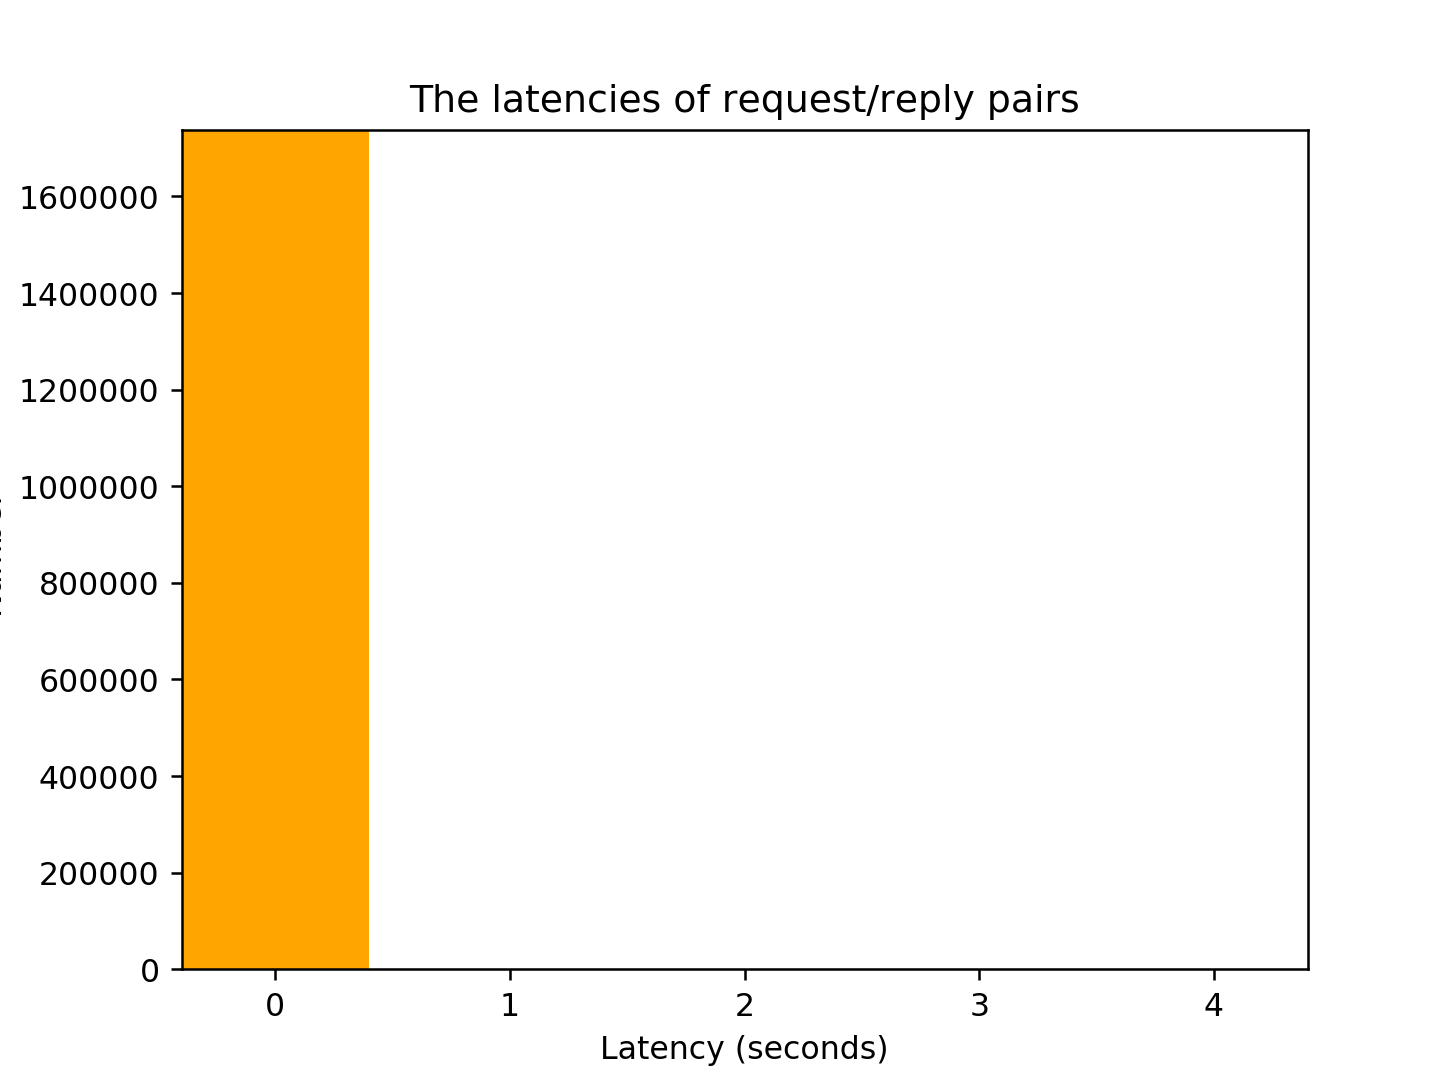
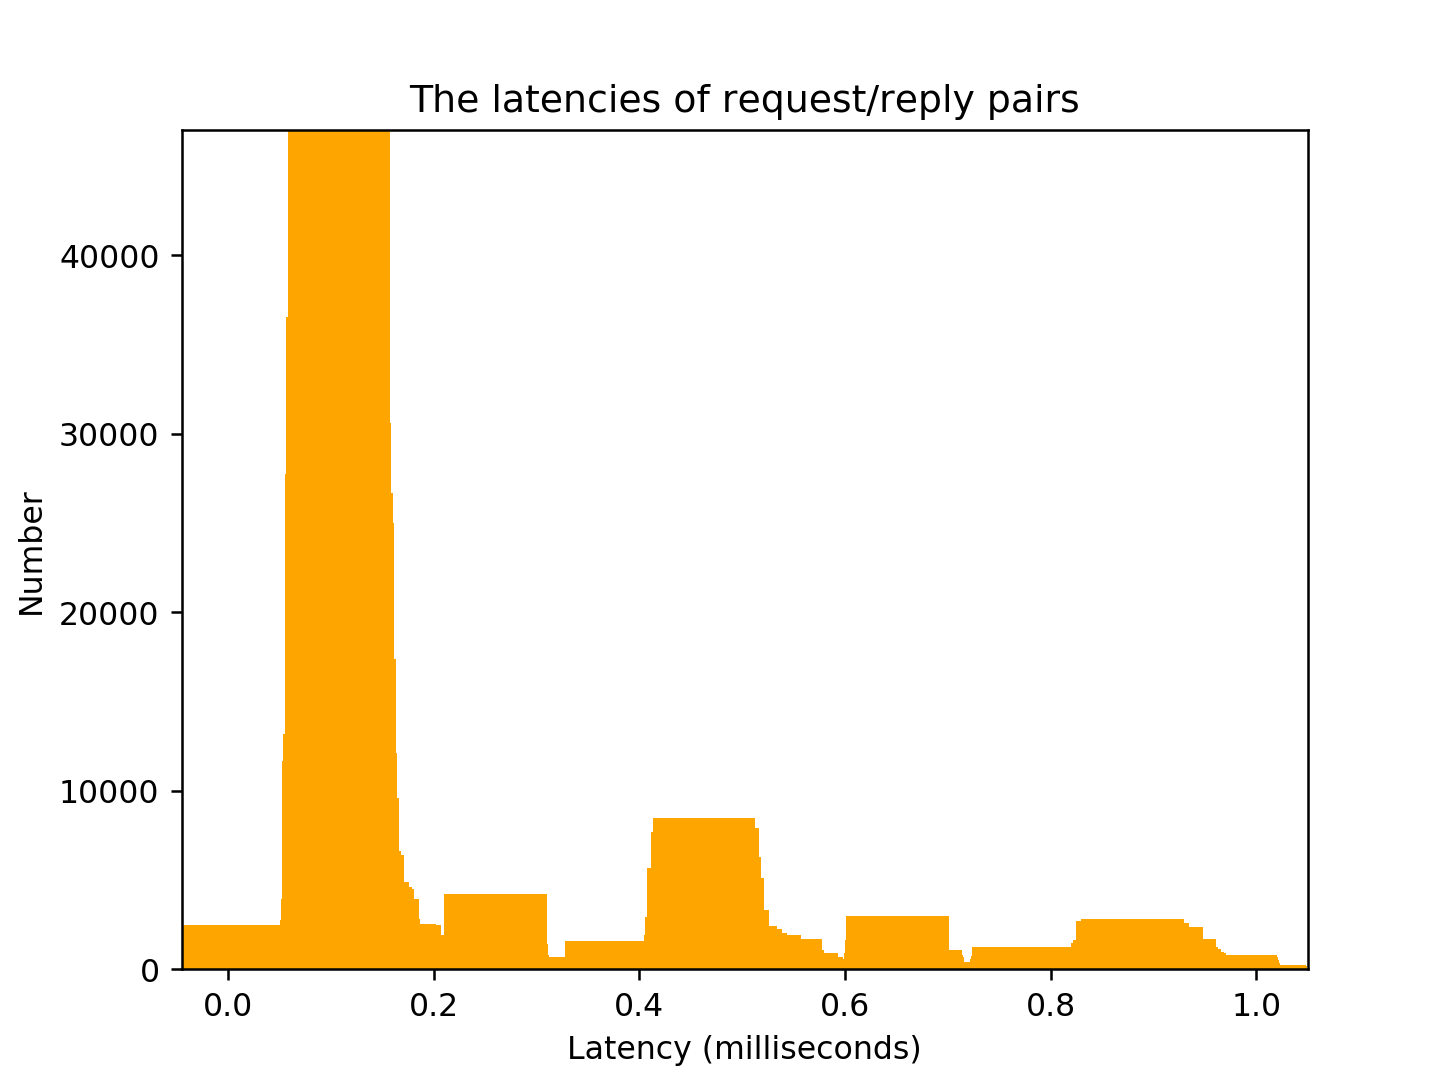
filter latencies more than one millisecond

Changed region(s): [[0.0, 0.0937, 0.2169, 0.8742], [0.2479, 0.1249, 0.8988, 0.9991], [0.124, 0.9054, 0.186, 0.9366]]

diff --git a/49/plot.py b/49/plot.py
@@ -6,11 +6,11 @@ import sys
 
 matrix = np.loadtxt(sys.stdin)
 
-print(matrix[-5:, :])
-
-plt.bar(matrix[:, 1], matrix[:, 0], color='orange')
+plt.bar(matrix[:, 1], matrix[:, 0], color='orange', width=0.1)
 plt.margins(0)
-plt.xlabel('Latency (seconds)')
+# plt.xticks(np.arange(10)/10, np.arange(10)/10)
+# plt.tick_params(axis='x', which='major', labelsize=5)
+plt.xlabel('Latency (milliseconds)')
 plt.ylabel('Number')
 plt.title('The latencies of request/reply pairs')
 plt.savefig('latency.png', dpi=227)
